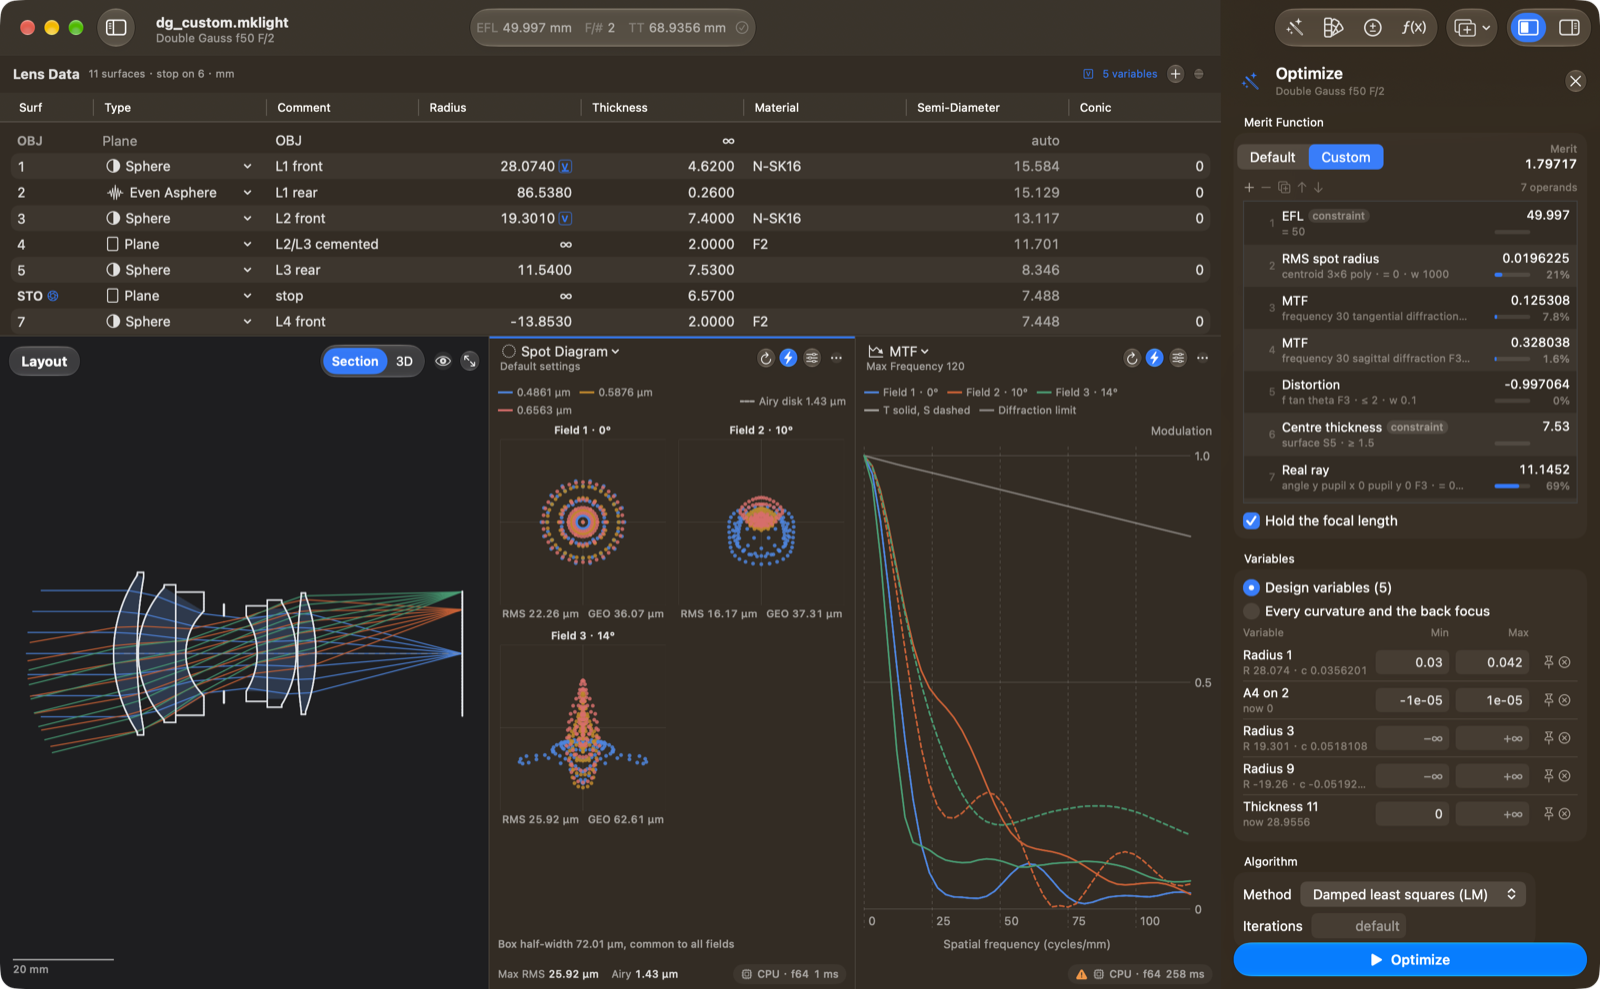
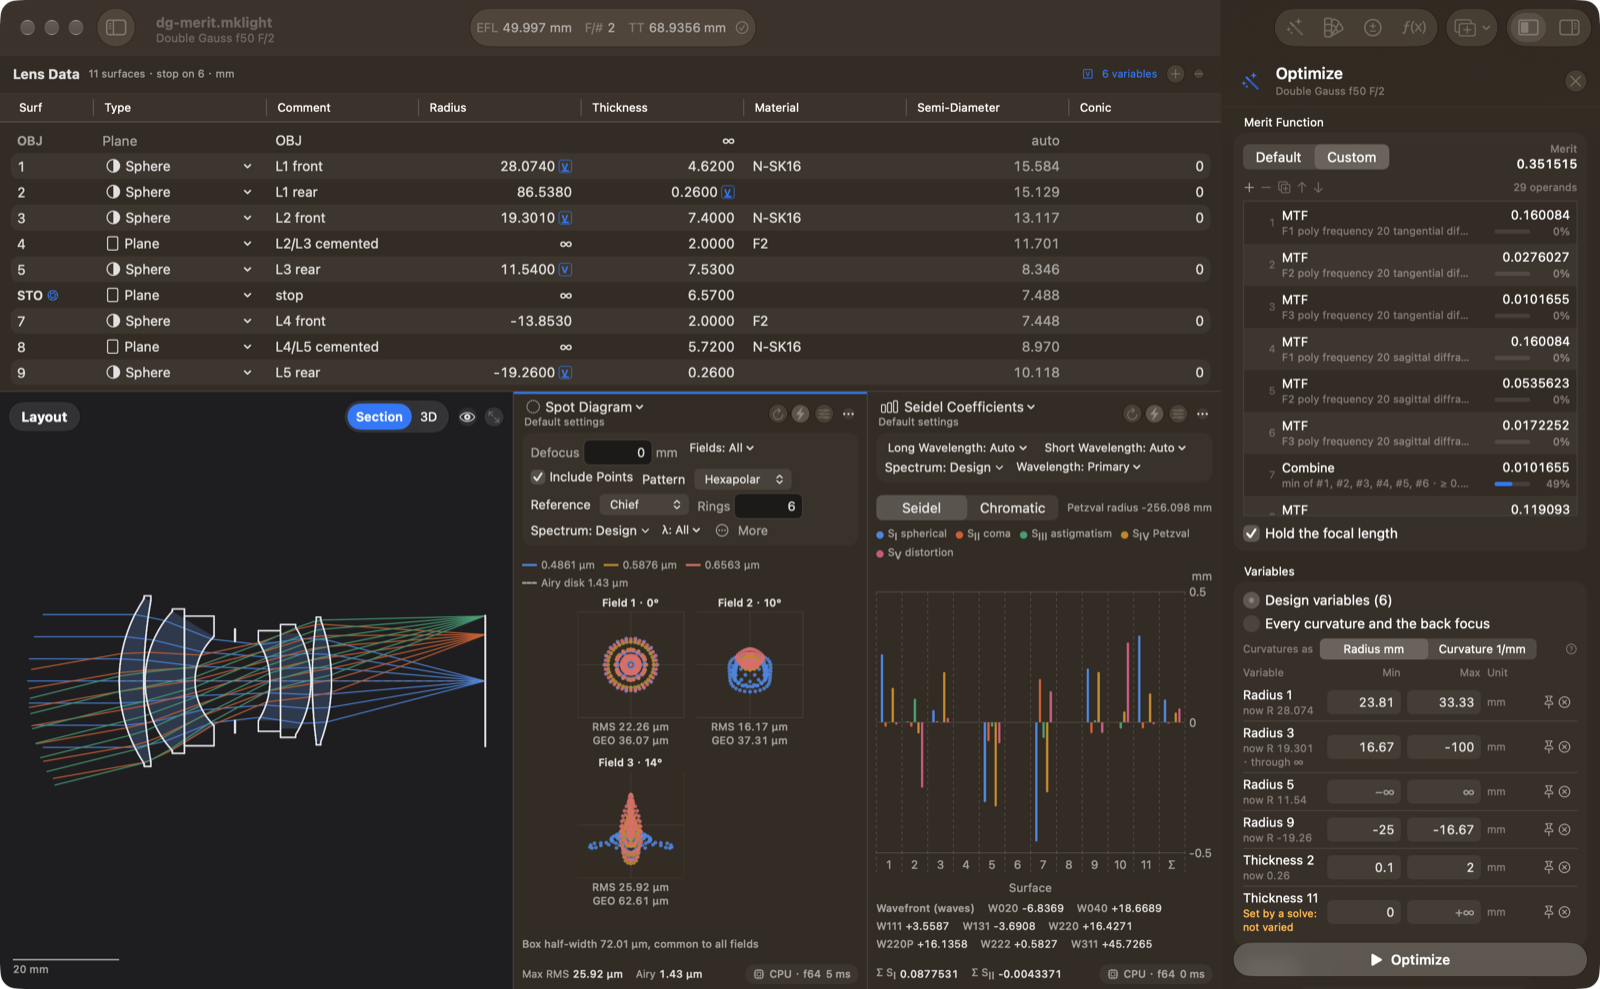
Merit screenshots from merit_evaluation: default MTF merit with a solved variable flagged, and the same merit converted to custom

diff --git a/apps/macos/docs/screenshots/README.md b/apps/macos/docs/screenshots/README.md
@@ -9,17 +9,18 @@ launch options (`-MKLightAppearance light|dark`, `-MKLightSheet`,
 `-MKLightAutoPick`, `-MKLightFootprints`, `-MKLightFit lens`,
 `-MKLightRunDetails`, docs/APP.md "Building"); downscaled to 1600 px. The
 review round (narrow panes, bounds, sections, scales, image simulation,
-warnings) retook the shots marked *new* or *updated*; the job-panel shots
-(Optimize running and result, Glass Substitution, the custom merit) and the
-welcome window are from the round before. Appearance in the file name. Reduce
+warnings) retook the shots marked *new* or *updated*; the two merit shots
+are from the `merit_evaluation` round (`-MKLightAutoConvert` pressed
+Convert to Custom); the other job-panel shots (Optimize running and result,
+Glass Substitution) and the welcome window are from the round before. Appearance in the file name. Reduce
 Transparency and Increase Contrast were not captured (switching them changes
 a system setting).
 
 | file | shows |
 |---|---|
 | `main-light.png`, `main-dark.png` | *updated* Double Gauss: glass sidebar (analyses in title case), toolbar with the four design jobs, lens data, layout, spot diagram (statistics on two lines in the narrow pane), MTF (its warning badge) and the glass map with the design's glasses ringed and labelled with their surfaces; the dark one with the surface inspector |
-| `merit-default-light.png` | *updated* Optimize: the default merit generator set to MTF (20 and 40 cycles/mm, target 0.6, weakest field), the live merit, Convert to Custom; variables with bounds in their units: radii as radius windows in mm (23.81 … 33.33; 16.67 … −100 through ∞; −25 … −16.67), the A₄ coefficient in mm⁻³, thicknesses in mm, the Radius mm / Curvature 1/mm switch; bounded marks in the table |
-| `merit-custom-dark.png` | the custom merit: operands with parameters, comparison, target and weight, their current values and shares of the merit as bars, constraints badged |
+| `merit-default-light.png` | *updated* Optimize on the Double Gauss: the default merit set to MTF (20 and 40 cycles/mm, target 0.6, weakest field) with the live merit from `merit_evaluation` (0.351515), Convert to Custom; variables with bounds in their units (radius windows in mm, one through ∞, thicknesses in mm) and a variable left on the back focus that a marginal-ray-height solve sets, flagged "Set by a solve: not varied"; the Seidel legend with S_I … S_V subscripts |
+| `merit-custom-dark.png` | *updated* the same merit converted to custom: the 29 generated operands (rows lead with their field: F1, F2, F3 …), their values and shares, the `combine` minimum carrying the merit, and the same merit, 0.351515 |
 | `optimize-running-light.png` | an LM run in progress: iteration, search merit, sparkline, the glass action bar with Cancel and Stop |
 | `optimize-result-light.png` | the stopped run's result previewed in the window ("Previewing Optimized design (stopped) · not applied"), the before/after layouts, every variable before → after, Discard and the prominent Apply to Design |
 | `glass-substitution-dark.png` | Glass Substitution on the achromat: 96 combinations ranked by merit with their improvement; candidate 2 previewed in the window and the panes (spot and glass map follow it), the before/after card and the panel's glass map with the candidate's glasses ringed |
